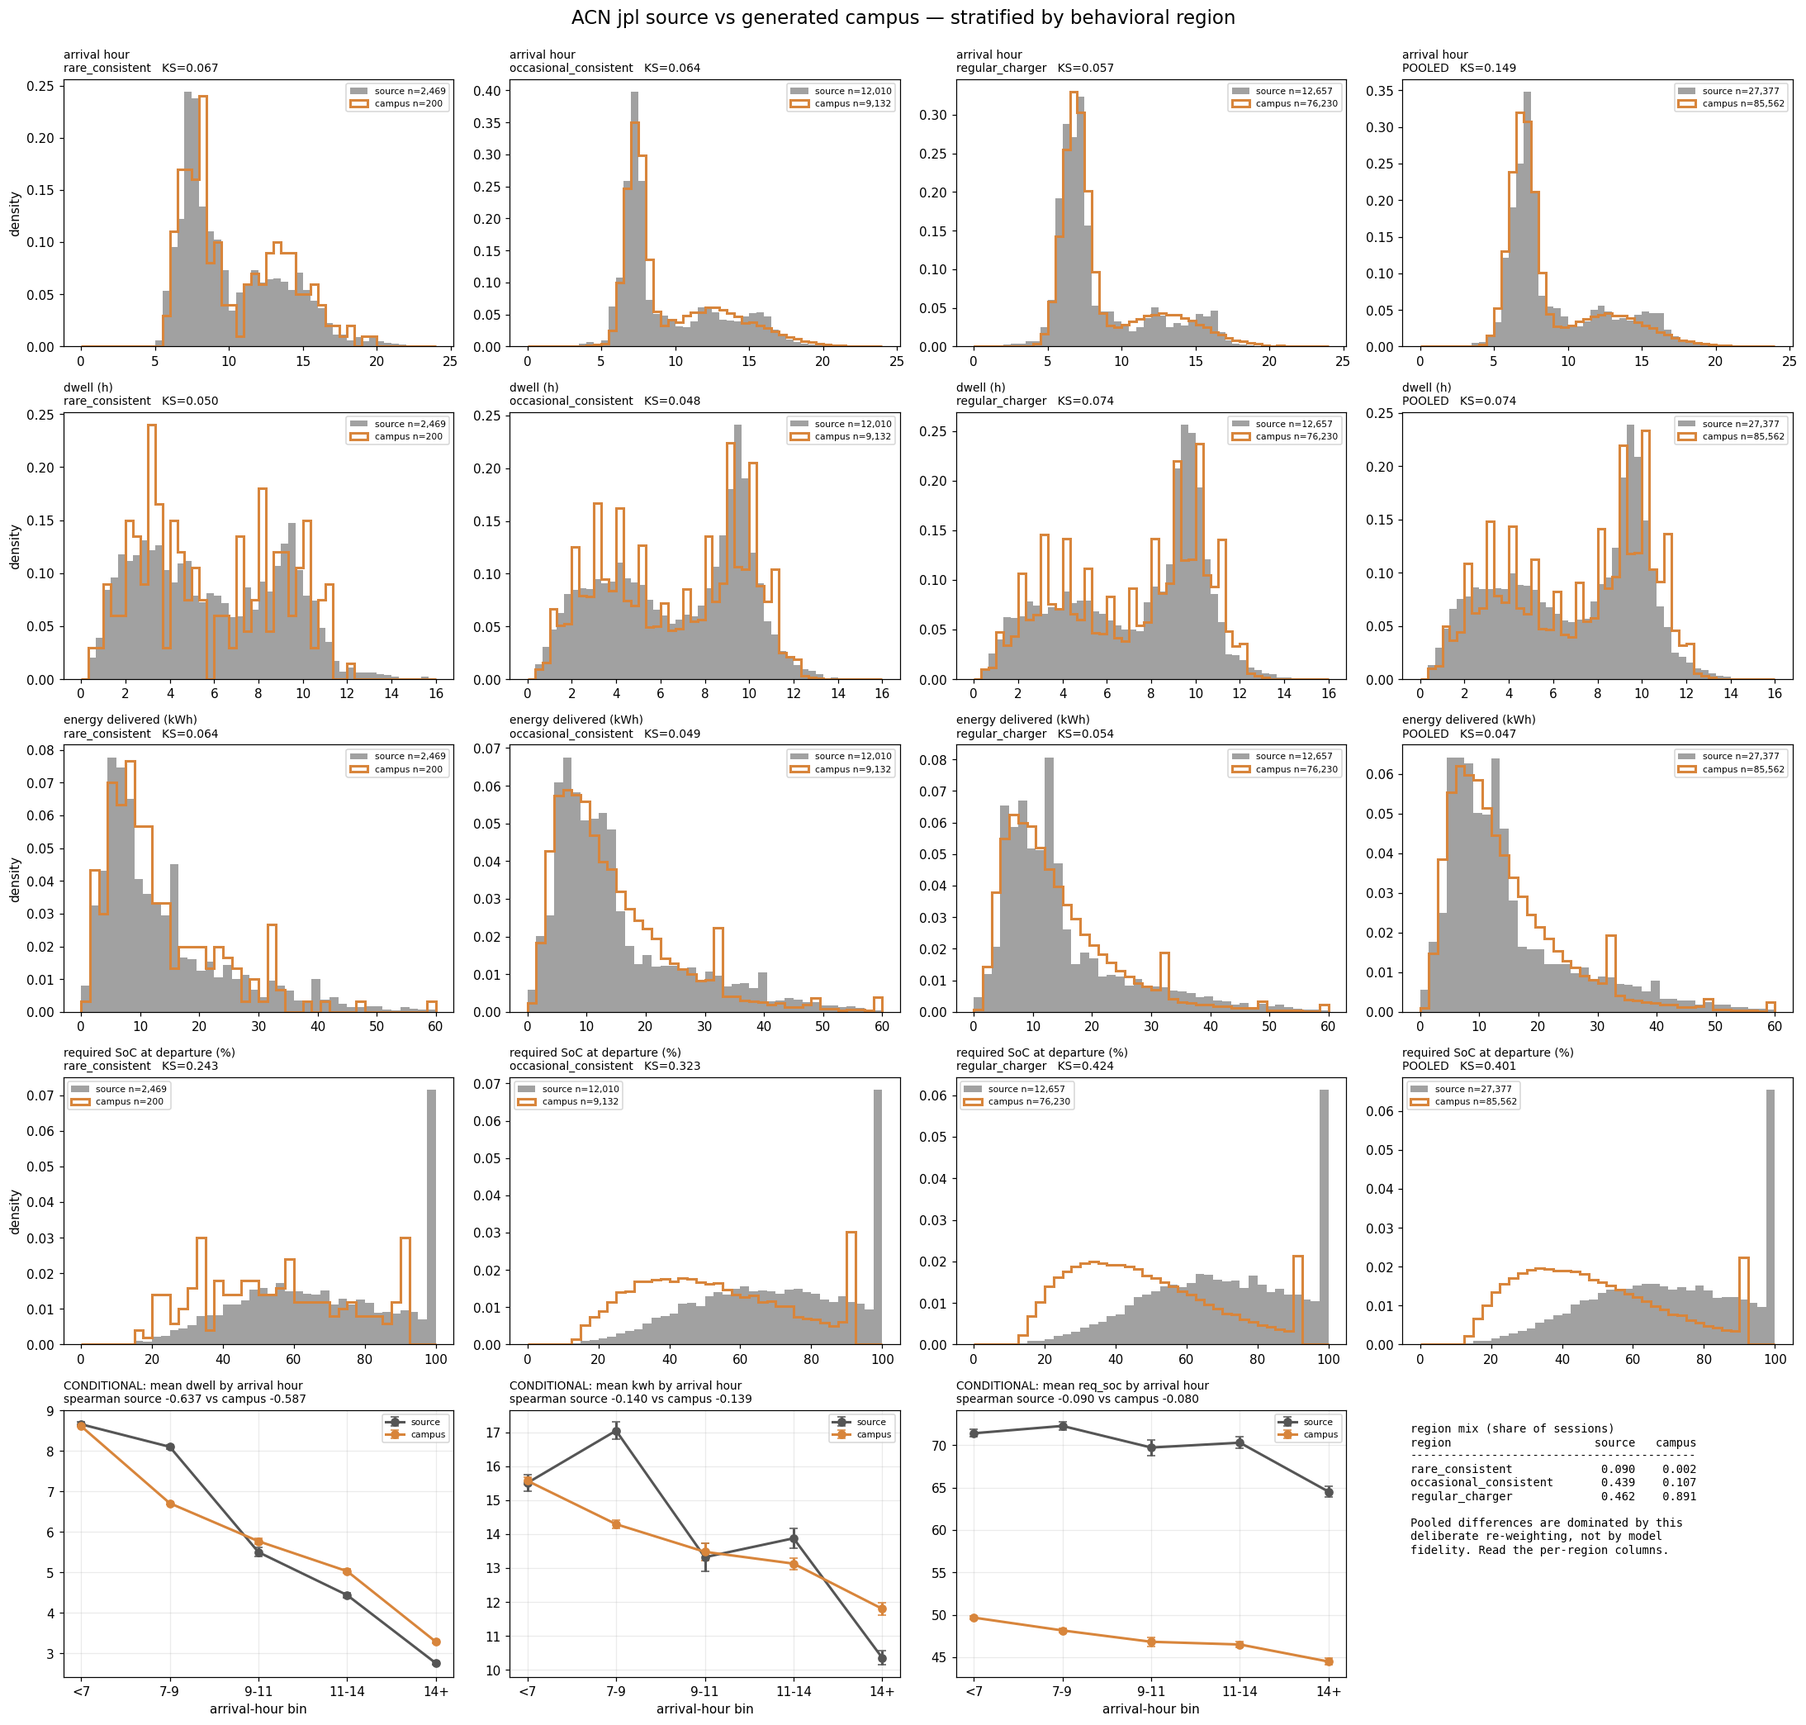
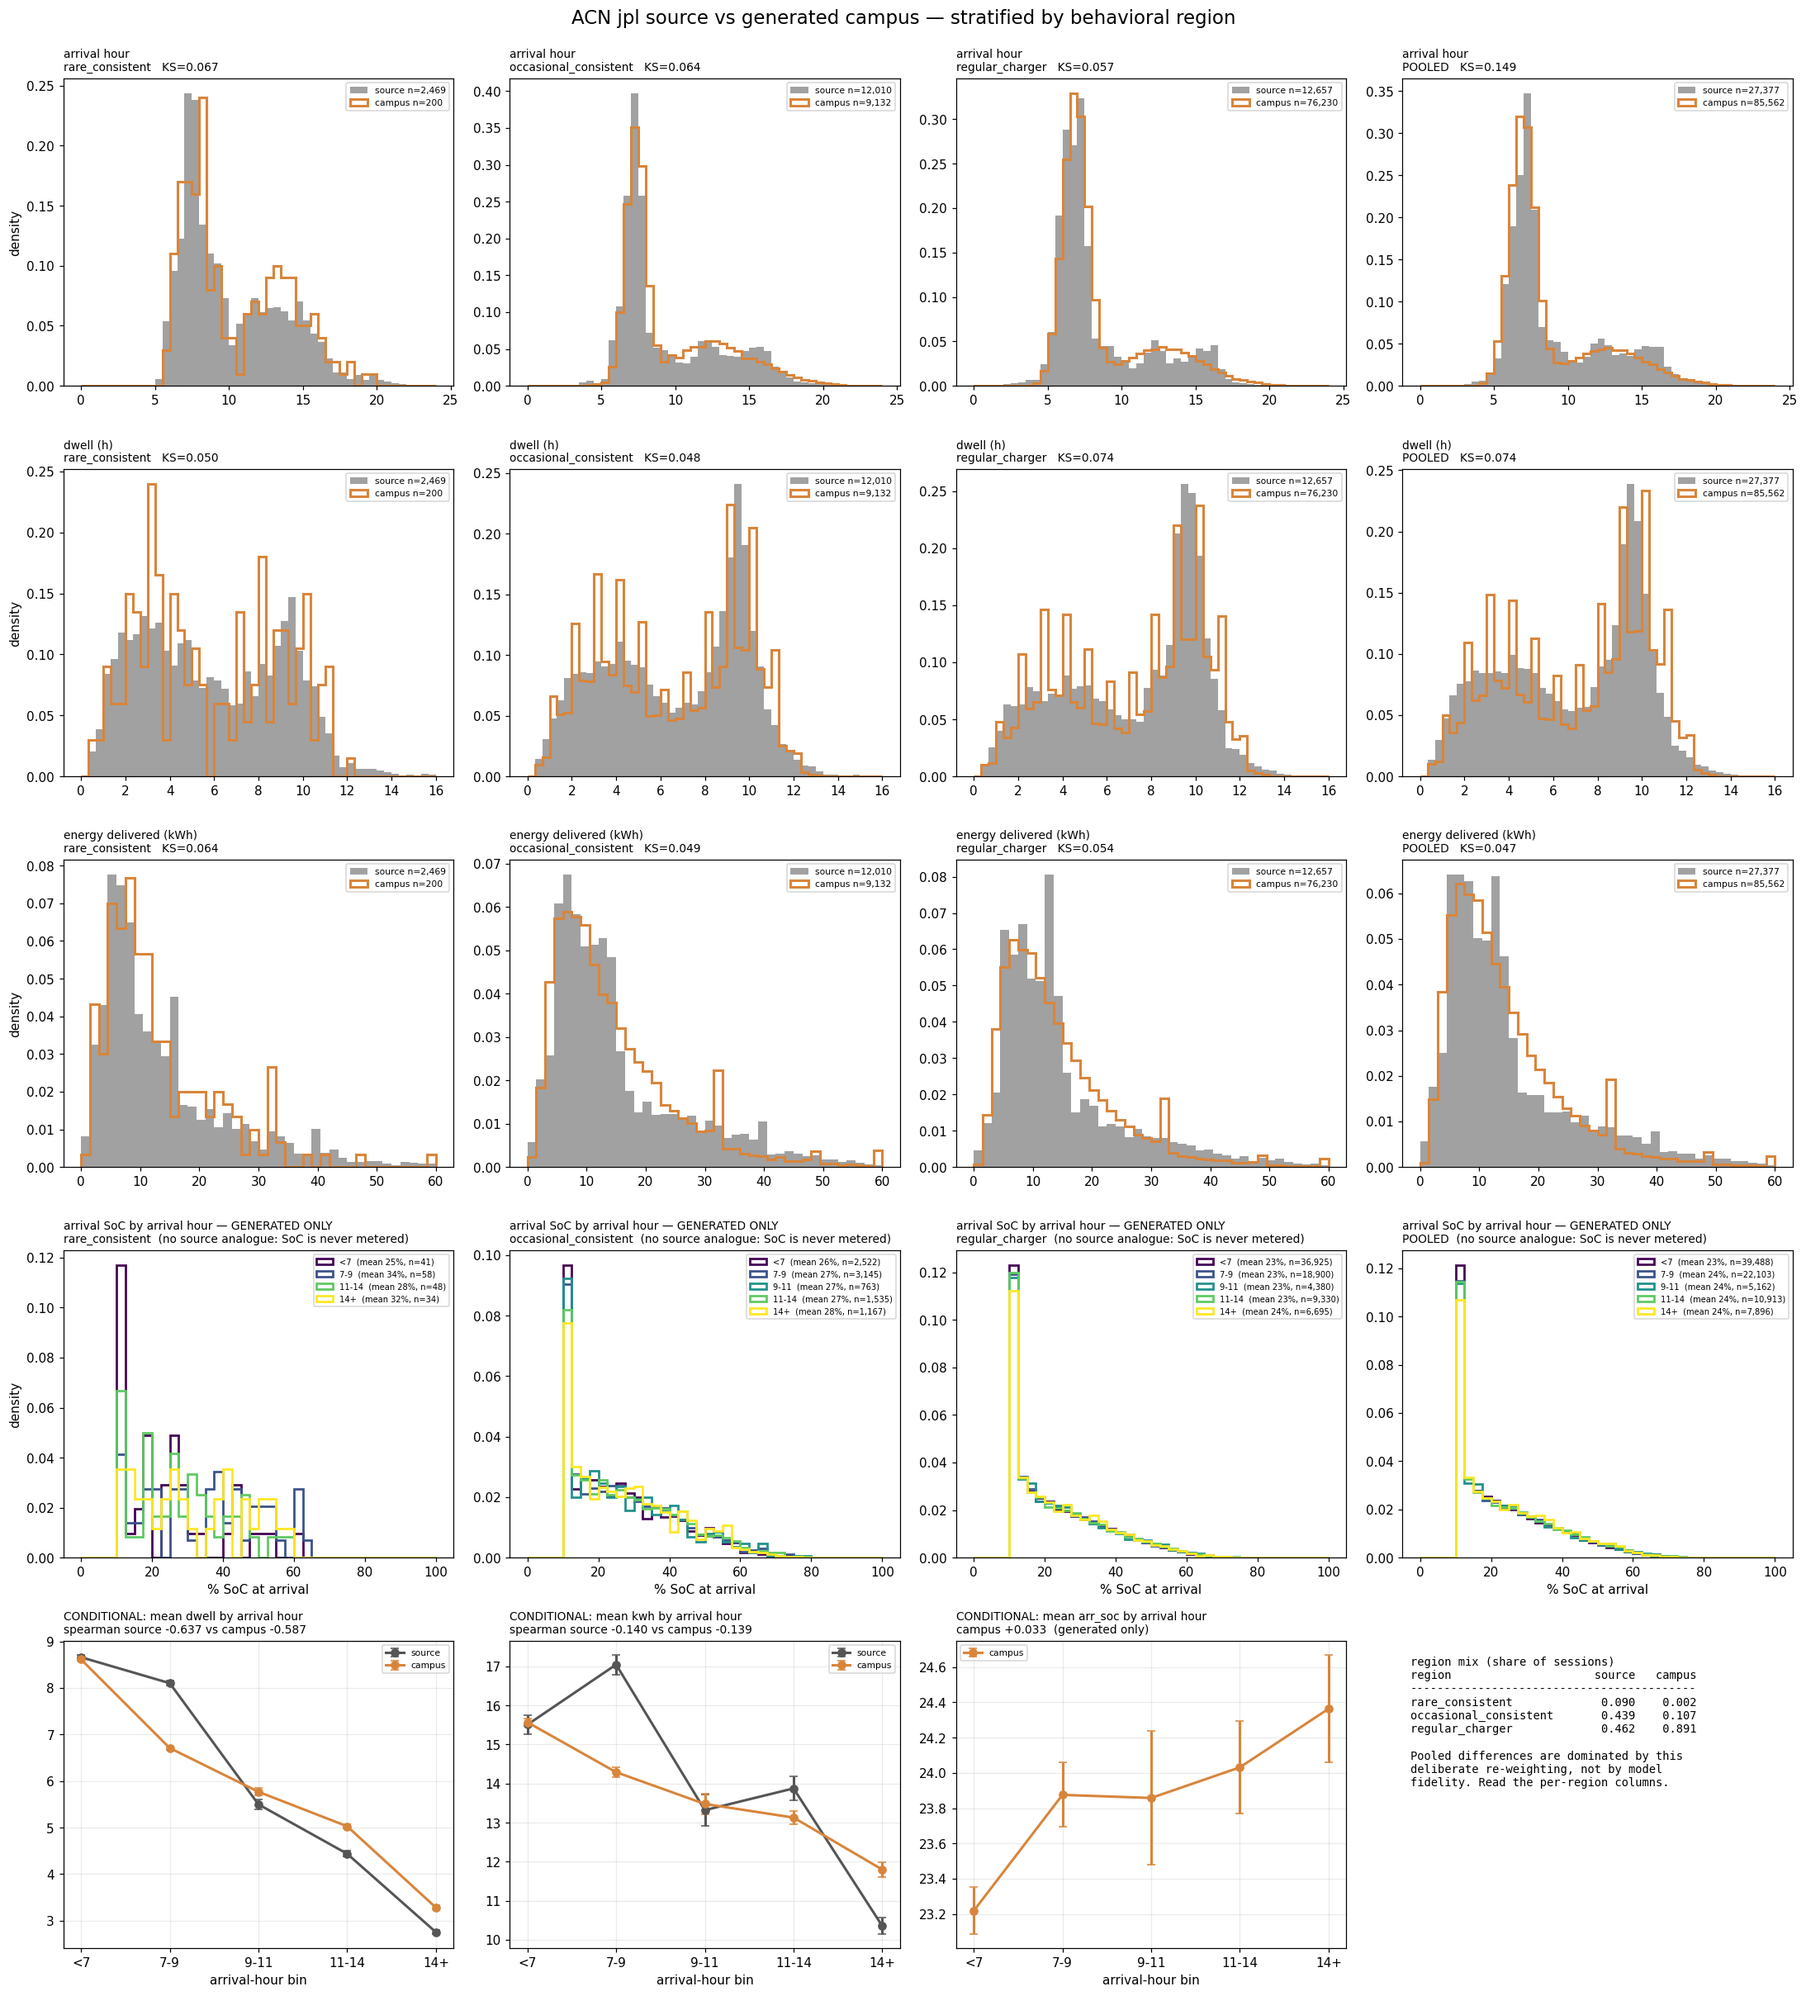
fix(tools): drop required-SoC comparison, add arrival-SoC-by-hour row
required_soc_at_depart has no source analogue: the 'source' side was
seeded_prior + kWhDelivered/inferred_capacity — a constant prior divided by a
capacity that falls back to 60 kWh on 28% of JPL sessions, so the panel
measured our own prior and capacity guess. Removed from the grid and the
conditional row. Replaced with an arrival-SoC-by-arrival-hour row, labelled
generated-only, as an internal-consistency check on the energy-first draw.

Claude-Session: https://claude.ai/code/session_015aFZkWUptWfjyAEGgcBmA2

diff --git a/tools/campus/source_vs_campus.py b/tools/campus/source_vs_campus.py
@@ -38,20 +38,24 @@ import matplotlib.pyplot as plt  # noqa: E402
 REPO = Path(__file__).resolve().parents[2]
 SRC_C, GEN_C = "#555555", "#d8853b"
 REGIONS = ["rare_consistent", "occasional_consistent", "regular_charger"]
+# Only quantities the SOURCE actually measures. `required_soc_at_depart` is
+# deliberately absent: on the source side it would be
+# `seeded_prior + kWhDelivered / inferred_capacity` — a constant prior (drawn
+# with no relation to arrival hour) divided by a capacity that falls back to
+# 60 kWh for 28% of JPL sessions. Comparing against it measures our prior and
+# our capacity guess, not behaviour. Arrival SoC gets its own generated-only
+# row below for the same reason.
 PARAMS = [
     ("arr_h", "arrival hour", 48, (0, 24)),
     ("dwell", "dwell (h)", 48, (0, 16)),
     ("kwh", "energy delivered (kWh)", 40, (0, 60)),
-    ("req_soc", "required SoC at departure (%)", 40, (0, 100)),
 ]
+HOUR_BINS = [0, 7, 9, 11, 14, 24]
+HOUR_LABELS = ["<7", "7-9", "9-11", "11-14", "14+"]
 
 
 def source_frame(site: str, pop_name: str) -> pd.DataFrame:
     from v2b_syndata.calibration.acn_fetcher import fetch_all_sessions, filter_with_userid
-    from v2b_syndata.calibration.battery_inference import (
-        infer_capacity,
-        reconstruct_arrival_soc,
-    )
     from v2b_syndata.calibration.feature_extractor import (
         aggregate_user_features,
         extract_session,
@@ -65,18 +69,9 @@ def source_frame(site: str, pop_name: str) -> pd.DataFrame:
     sess = [s for s in (extract_session(r, site) for r in raw) if s is not None]
     users = aggregate_user_features(sess, None, None)
     u2r = {u.user_id: (assign_user_to_region(u, axes) or "__unassigned__") for u in users}
-    rng = np.random.default_rng(20260613)
-    rows = []
-    for s in sess:
-        cap, _ = infer_capacity(s)
-        soc = reconstruct_arrival_soc(s, cap, rng=rng)
-        req = np.nan
-        if soc is not None and cap > 0 and s.kwh_delivered:
-            d = min(1 - 1e-6, soc + float(s.kwh_delivered) / float(cap))
-            req = d * 100 if d > soc else np.nan
-        rows.append({"region": u2r.get(s.user_id, "__unassigned__"),
-                     "arr_h": s.arrival_hour, "dwell": s.dwell_hours,
-                     "kwh": s.kwh_delivered, "req_soc": req})
+    rows = [{"region": u2r.get(s.user_id, "__unassigned__"),
+             "arr_h": s.arrival_hour, "dwell": s.dwell_hours,
+             "kwh": s.kwh_delivered} for s in sess]
     return pd.DataFrame(rows)
 
 
@@ -110,7 +105,7 @@ def synth_frame(root: Path, units: int, phi_scale: float) -> pd.DataFrame:
                 "arr_h": a.dt.hour + a.dt.minute / 60.0,
                 "dwell": (dep - a).dt.total_seconds() / 3600.0,
                 "kwh": (g["departure_soc"] - g["arrival_soc"]) / 100.0 * cap,
-                "req_soc": g["departure_soc"],
+                "arr_soc": g["arrival_soc"],
             }))
     return pd.concat(frames, ignore_index=True)
 
@@ -134,7 +129,7 @@ def main(argv=None) -> int:
           {k: round(v, 3) for k, v in gen.region.value_counts(normalize=True).items()})
 
     cols = REGIONS + ["POOLED"]
-    fig, axes = plt.subplots(len(PARAMS) + 1, len(cols), figsize=(20, 19))
+    fig, axes = plt.subplots(len(PARAMS) + 2, len(cols), figsize=(20, 22))
     stats = []
     for i, (key, label, bins, rng_) in enumerate(PARAMS):
         for j, reg in enumerate(cols):
@@ -156,24 +151,55 @@ def main(argv=None) -> int:
             if j == 0:
                 ax.set_ylabel("density")
 
+    # ── arrival-SoC distribution BY ARRIVAL HOUR (generated only) ───────────
+    # No source analogue: SoC is never metered. This row is an INTERNAL
+    # consistency check — after the energy-first fix, arrivals that precede a
+    # large charge must sit lower, so early-hour curves should shift left.
+    gen_h = gen.dropna(subset=["arr_soc", "arr_h"]).copy()
+    gen_h["hb"] = pd.cut(gen_h.arr_h, HOUR_BINS, labels=HOUR_LABELS)
+    cmap = plt.get_cmap("viridis")
+    for j, reg in enumerate(cols):
+        ax = axes[len(PARAMS), j]
+        sub = gen_h if reg == "POOLED" else gen_h[gen_h.region == reg]
+        if len(sub) < 50:
+            ax.axis("off"); continue
+        for i, hlab in enumerate(HOUR_LABELS):
+            v = sub[sub.hb == hlab]["arr_soc"].to_numpy()
+            if len(v) < 30:
+                continue
+            ax.hist(v, bins=40, range=(0, 100), density=True, histtype="step", lw=1.8,
+                    color=cmap(i / max(1, len(HOUR_LABELS) - 1)),
+                    label=f"{hlab}  (mean {v.mean():.0f}%, n={len(v):,})")
+        ax.set_title(f"arrival SoC by arrival hour — GENERATED ONLY\n{reg}  "
+                     f"(no source analogue: SoC is never metered)", fontsize=9, loc="left")
+        ax.set_xlabel("% SoC at arrival"); ax.legend(fontsize=6.5)
+        if j == 0:
+            ax.set_ylabel("density")
+
     # conditional row: mean of each parameter by arrival-hour bin
-    hb = [0, 7, 9, 11, 14, 24]
-    hl = ["<7", "7-9", "9-11", "11-14", "14+"]
-    for j, key in enumerate(["dwell", "kwh", "req_soc"]):
+    hb, hl = HOUR_BINS, HOUR_LABELS
+    for j, key in enumerate(["dwell", "kwh", "arr_soc"]):
         ax = axes[-1, j]
-        for df, c, lab in ((src, SRC_C, "source"), (gen, GEN_C, "campus")):
+        series = ((gen, GEN_C, "campus"),) if key == "arr_soc" else \
+                 ((src, SRC_C, "source"), (gen, GEN_C, "campus"))
+        for df, c, lab in series:
+            if key not in df.columns:
+                continue
             d = df.dropna(subset=[key, "arr_h"]).copy()
             d["hb"] = pd.cut(d.arr_h, hb, labels=hl)
             m = d.groupby("hb")[key].mean()
             sd = d.groupby("hb")[key].sem()
             ax.errorbar(range(len(hl)), m.values, yerr=1.96 * sd.values, marker="o",
                         color=c, lw=2, capsize=3, label=lab)
-        rs = st.spearmanr(src.arr_h, src[key], nan_policy="omit").statistic
         rg = st.spearmanr(gen.arr_h, gen[key], nan_policy="omit").statistic
         ax.set_xticks(range(len(hl))); ax.set_xticklabels(hl)
         ax.set_xlabel("arrival-hour bin")
-        ax.set_title(f"CONDITIONAL: mean {key} by arrival hour\n"
-                     f"spearman source {rs:+.3f} vs campus {rg:+.3f}", fontsize=9, loc="left")
+        if key == "arr_soc":
+            sub = f"campus {rg:+.3f}  (generated only)"
+        else:
+            rs = st.spearmanr(src.arr_h, src[key], nan_policy="omit").statistic
+            sub = f"spearman source {rs:+.3f} vs campus {rg:+.3f}"
+        ax.set_title(f"CONDITIONAL: mean {key} by arrival hour\n{sub}", fontsize=9, loc="left")
         ax.legend(fontsize=7); ax.grid(alpha=.25)
     axes[-1, -1].axis("off")
     txt = (f"region mix (share of sessions)\n"
